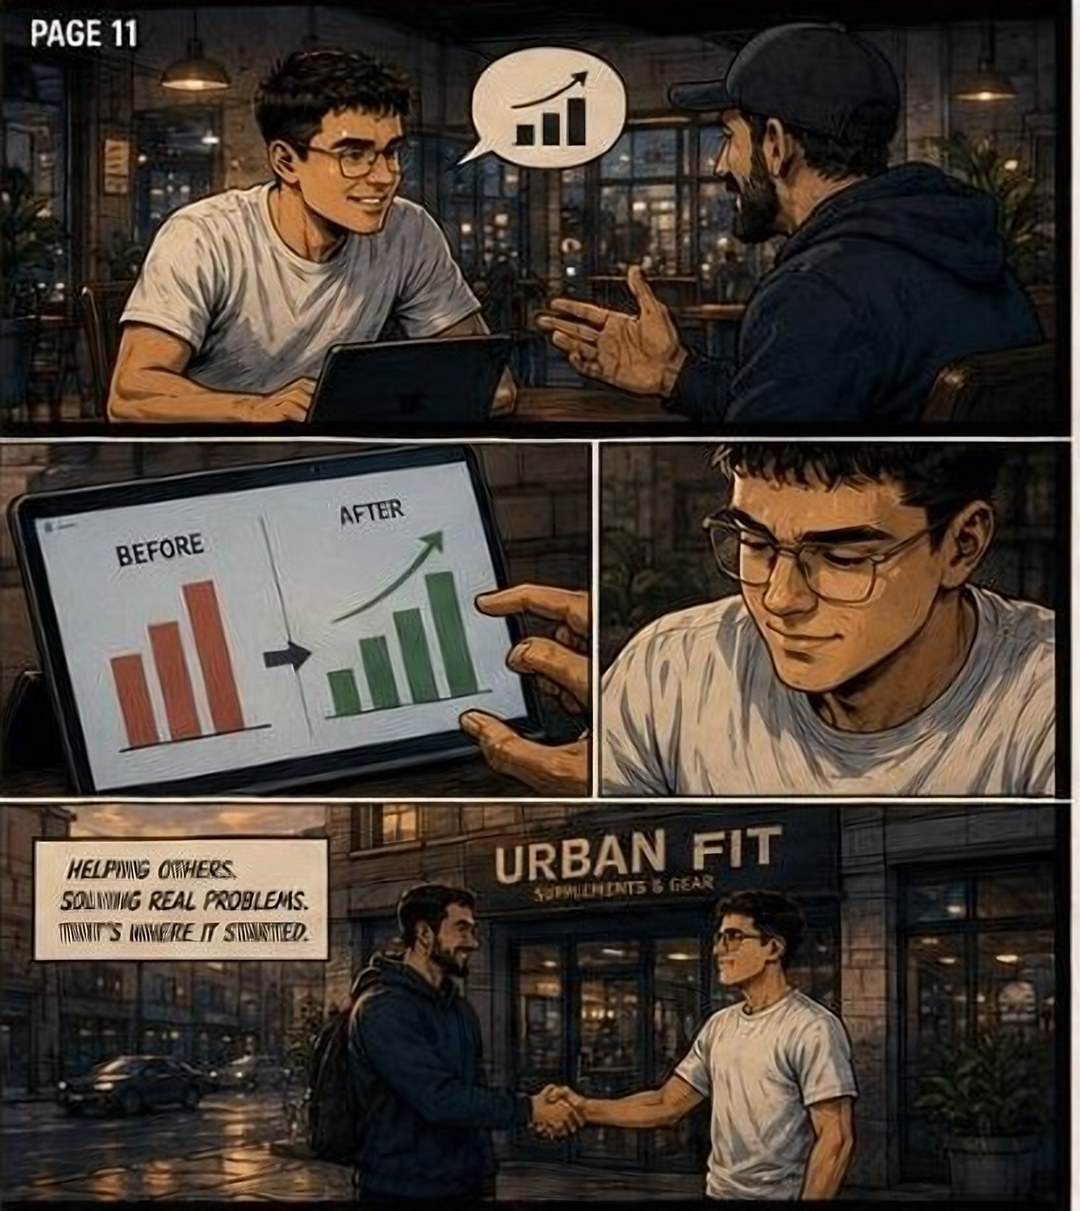
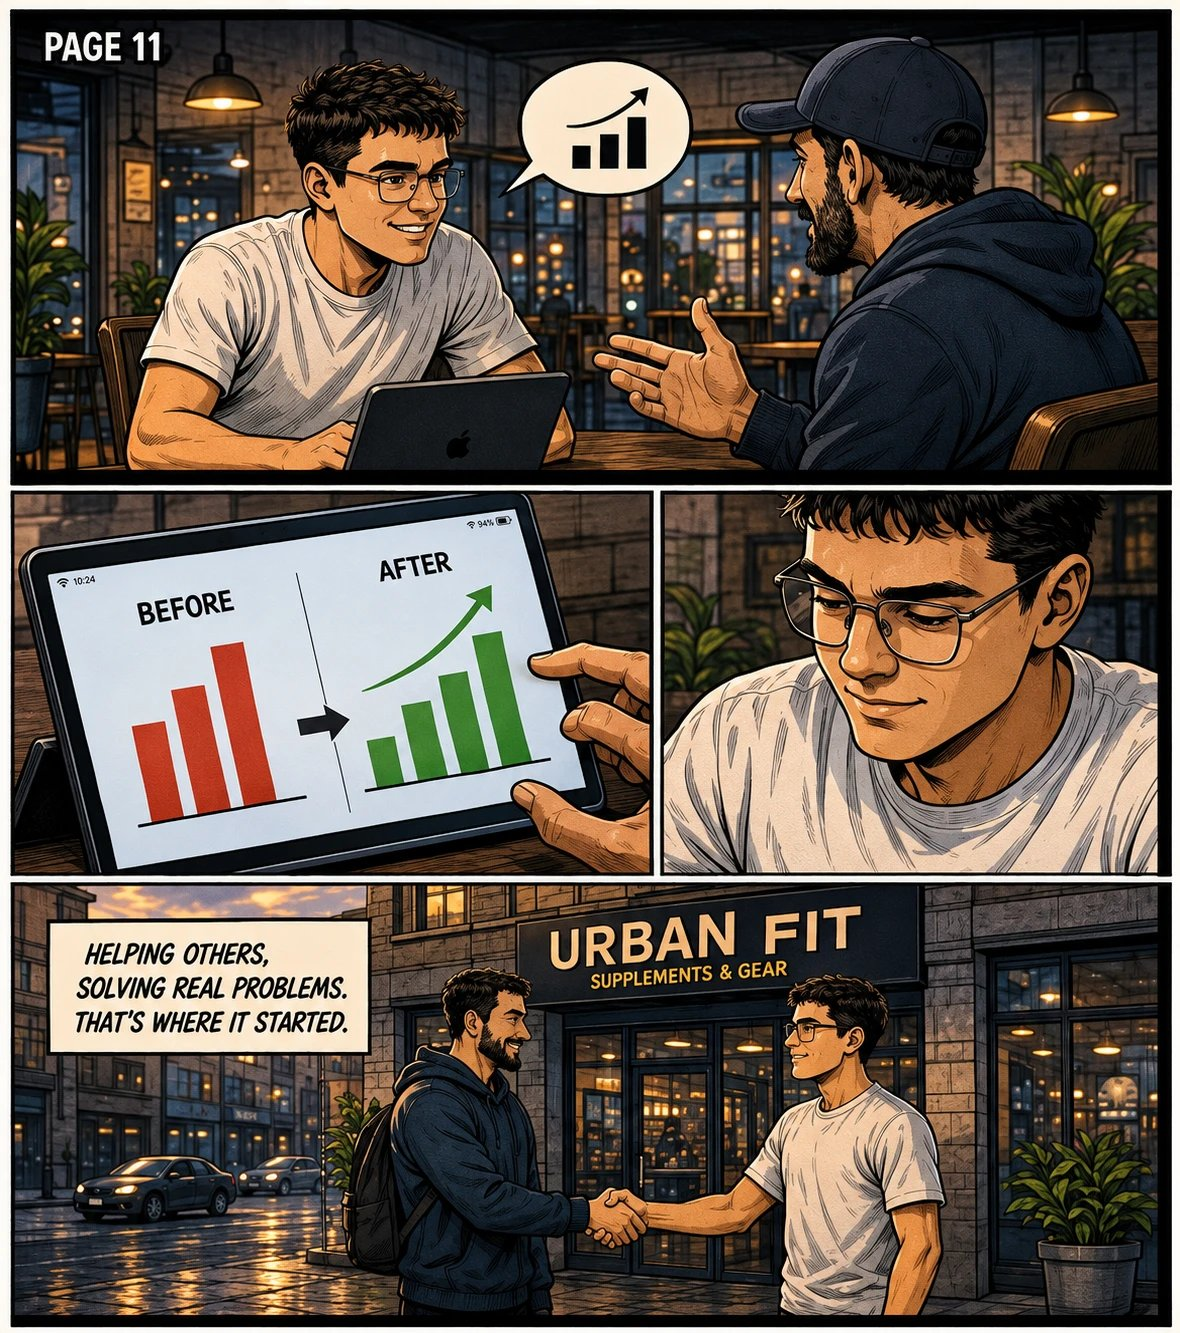
Replace Focus pages 11-15 with full-resolution originals
Claude-Session: https://claude.ai/code/session_01S2MNRhPJjaxUFeoyxPCRD3

diff --git a/volume-1/index.html b/volume-1/index.html
@@ -64,7 +64,7 @@ figure img { width: 100%; height: auto; display: block; border: 1px solid var(--
 
 <script>
 // Pages in reading order: [label, width, height]. Add new pages here as they are uploaded.
-var PAGES = [["1",1080,1623],["2",1080,1529],["3",1080,1623],["4",1080,1623],["5",1080,1623],["6",1254,1254],["7",1080,1623],["8",1080,1623],["9",1086,1448],["10",1080,1456],["10b",1086,1448],["11",1080,1211],["12",1080,1191],["13",1080,1171],["14",1080,647],["15",1080,649]];
+var PAGES = [["1",1080,1623],["2",1080,1529],["3",1080,1623],["4",1080,1623],["5",1080,1623],["6",1254,1254],["7",1080,1623],["8",1080,1623],["9",1086,1448],["10",1080,1456],["10b",1086,1448],["11",1180,1333],["12",1197,1315],["13",1203,1307],["14",1622,970],["15",1621,970]];
 var TOTAL = 30;
 var LAST = parseInt(PAGES[PAGES.length - 1][0], 10);
 var html = "";
